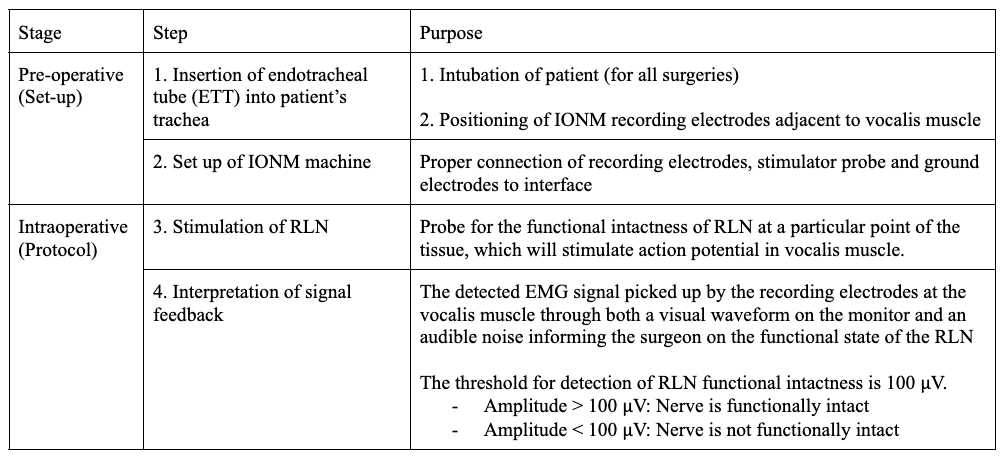
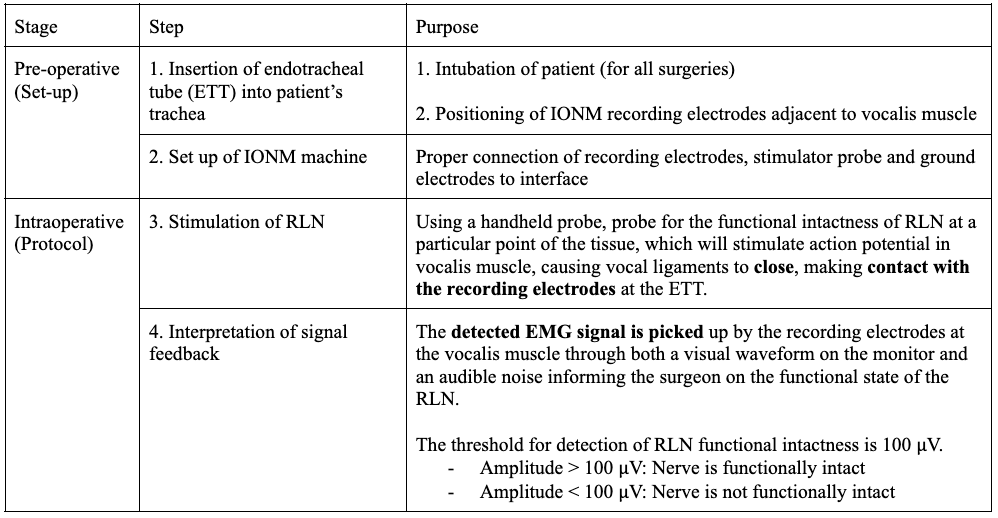
final changes maybe

Changed region(s): [[0.0, 0.0, 0.994, 1.0]]

diff --git a/index.html b/index.html
@@ -39,7 +39,7 @@
 
     <!-- This is the team member component use to display details about your team members -->
     <div class="team-member-wrapper">
-      <team-member avatar="assets/blackranger.png" name="Roopashini Sivananthan" department="Biomedical Engineering"
+      <team-member avatar="assets/roopa.png" name="Roopashini Sivananthan" department="Biomedical Engineering"
         year="National University of Singapore"></team-member>
       <team-member avatar="assets/nicole.jpg" name="Chong Hui Hsuen Nicole" department="Biomedical Engineering"
         year="National University of Singapore"></team-member>
@@ -147,7 +147,7 @@
           The thyroid gland controls the body’s metabolism, energy and growth, and is removed via thyroidectomies for patients with thyroid cancers, goiters, Graves disease and thyroid nodules. Thyroid cancer accounts for the bulk of cases due to its high prevalence, as the second most common cancer in females between 25 and 49 years old (NCCS, 2026), and almost 95% of cases requiring surgery as an effective treatment option (Gomez-Saiz, 2013). The recurrent laryngeal nerve (RLN) is an important nerve that controls voice, breathing and swallowing functions through activation of the vocalis muscle. It is a key nerve at risk during thyroidectomies due its close positioning posterior to the thyroid (Figure 1), with an injury rate of about 8.2% in Singapore (Soong et al., 2026). The presence of large tumours in thyroid cancer can obstruct the surgeon’s field view of the RLN, increasing the risk of injury. 
         </p>
         <image-component tag="image" source="assets/thyroid.jpg"
-          subtitle="Figure 1: Anatomy of thyroid"></image-component>
+          subtitle="Figure 1. Anatomy of thyroid"></image-component>
         <p>
           RLN injuries can be temporary or permanent, with a permanent injury rate of 1%, and can either be unilateral or bilateral. While unilateral RLN injury can cause swallowing difficulties and voice changes (Culp & Patel, 2023), bilateral injury can cause serious complications like respiratory distress (Culp & Patel, 2023). RLN injury can be classified into two subtypes: type I (segmental injury) or type II (global injury). Type I injuries account for 70% of cases, are often caused by clamping, traction, compression or thermal injury, and have the potential to be corrected intraoperatively if the clip, suture, vessel or fibrotic band entrapping the nerve is removed on time (Wu et al., 2014).
         </p>
@@ -155,9 +155,9 @@
           Intra-operative nerve monitoring (IONM) systems guide surgical decision making during thyroidectomies through determination of RLN identity and functional intactness, so surgeons can preserve the RLN or to change their operative course accordingly. To date, there is only one IONM system that is widely distributed worldwide — Medtronic’s Neural Integrity Monitor (NIM). Since the RLN controls the vocalis muscle, IONM determines RLN functional intactness by 1) electrical stimulation of the RLN and 2) measurement of the action potential fired by the vocalis muscle as a result of RLN stimulation. The mode of IONM commonly used in Singaporean hospitals is intermittent-IONM (i-IONM). The i-IONM set-up and protocol is detailed below:
         </p>
         <image-component tag="image" source="assets/ionm_workflow1.png"
-          subtitle="Table showing IONM pre-operative set-up and protocol"></image-component>
+          subtitle="Table 1. IONM pre-operative set-up and protocol"></image-component>
         <image-component tag="image" source="assets/ionm_workflow.png"
-          subtitle="Figure 2: IONM workflow"></image-component>
+          subtitle="Figure 2. IONM workflow"></image-component>
       </div>
 
       <div id="sub-section-1-header-2">
@@ -173,7 +173,7 @@
           to (Figure 3). 
         </p>
         <image-component tag="image" source="assets/vagusnerve.png"
-          subtitle="Figure 3: c-IONM system"></image-component>
+          subtitle="Figure 3. c-IONM system"></image-component>
         <p>
           Since this electrode is securely positioned for RLN stimulation 
           throughout the surgery, it is able to automatically stimulate the RLN and 
@@ -198,7 +198,7 @@
           can only be done by estimation as the contact point of the electrodes is not 
           visible to the surgeon. This troubleshooting protocol is executed in up to 23% 
           of surgeries, adding 5-10 minutes to total surgery time (Ansari et al., 2024). 
-          A survey we conducted with 30 surgeons similarly showed ETT displacement to be 
+          A <a href="#Survey with surgeons">survey we conducted with 30 surgeons</a> similarly showed ETT displacement to be 
           among the top 3 technical challenges faced during IONM operation. 
         </p>
         <video-component tag="False negative signals" source="https://youtube.com/embed/XZrJoHrcfj4"
@@ -251,8 +251,9 @@
         <p><br>
           The key terms are defined below:
         </p>
-        <table-component subtitle="Definitions of key terms">
+        <table-component subtitle="Table 2. Definitions of key terms" title="Table 2. Definitions of key terms">
           <div id="table2"></div>
+        <p style="text-align: center;"><i>Table 2. Definitions of key terms</i></p>
         </table-component>
 
       </div>
@@ -290,9 +291,9 @@
           We modelled our persona (Figure 9) based on one of our clinical mentors, Dr. Joel Lau, who is representative of a senior demographic of surgeons who have already undergone their training as a Head & Neck specialists and routinely use i-IONM and not c-IONM during thyroidectomies. His key gains, pains, and jobs to be done are shown below.
         </p>
         <image-component tag="image" source="assets/persona.png"
-          subtitle="Figure 9. Persona"></image-component>
+          subtitle="Figure 9. Persona"></image-component><br>
         <image-component tag="image" source="assets/value prop.png"
-          subtitle="Persona"></image-component>
+          subtitle="Table 3. Persona gains, pains and jobs to be done"></image-component>
 
         
       </div>
@@ -341,7 +342,7 @@
           Upon analysis from primary and secondary review, we formed our needs criteria encompassing both must-haves and good-to-haves along with clear justifications and alignment to our problem statement. 
         </p>
         <image-component tag="image" source="assets/design criteria.png"
-          subtitle="Design criteria"></image-component>
+          subtitle="Table 4. Design criteria"></image-component>
         <p>
           Overall, our must-have criteria aim to propose a new mechanism to assess nerve function while providing surgeons a robust system that can both detect and provide corrective actions on how to improve the signal obtained. It also gives surgeons a proactive solution that prevents ETT displacement while preventing disruptions to overall workflows during surgeries. 
         </p>
@@ -382,7 +383,7 @@
           <b>2. Designing solutions</b> - To fabricate solutions that prevent ETT displacement, improve contact area, measure and communicate signals effectively so as to address gaps in current solutions 
         </p>
         <image-component tag="image" source="assets/questions.png"
-          subtitle="Initial prototyping plan"></image-component>
+          subtitle="Table 5. Initial prototyping plan"></image-component>
       </div>
 
       <div id="sub-section-5-header-1">
@@ -410,7 +411,7 @@
         <image-component tag="image" source="assets/silicone.png"
           subtitle="Figure 18. Silicone vocal cords"></image-component>
         <p>
-          While the texture mimics real vocal ligaments, we had to integrate them together by using toothpick and rubber bands to secure the ligaments with the rest of the model (Figure 19). This helped to seal the gaps and form a proper closing mechanism. Future investigation will include a pneumatic pump to control and identify the amplitude of movements and match the signal of a real vocal cord movement upon stimulation of RLN. 
+          While the texture mimics real vocal ligaments, we had to integrate them together by using toothpick and rubber bands to secure the ligaments with the rest of the model (Figure 19). This helped to seal the gaps and form a proper closing mechanism. Future investigation will include a pneumatic pump to control, identify the amplitude of movements that matches the signal of a real vocal cord movement upon stimulation of RLN. 
         </p>
         <video-component tag="video" source="https://youtube.com/embed/7htqKR0bMUA"
           subtitle="Figure 19. Simulating vocal cord movement"></video-component>
@@ -423,7 +424,7 @@
           Currently, signals from ETT are measured via electromyography (EMG) activity from the movement of vocal ligaments in contact with the recording electrodes. We hope to explore other quantifiable detection methods to assess whether the displacement has occurred. The two possible methods tried were using distance displacement and pressure contact sensors. 
         </p>
         <p>
-          Firstly, a flex sensor was attached to the top half of the ETT secured using an adhesive glue (Figure 20). Flex sensor works as a variable resistor whose electrical resistance changes as the bending movement increases. Similarly, we were able to obtain variable readings as the tube was being bent. However, using a flex sensor is limited in its measurement for displacements occurring in the x and y directions and thus this method cannot be implemented on its own. 
+          Firstly, a flex sensor was attached to the top half of the ETT secured using an adhesive glue (Figure 20). Flex sensor works as a variable resistor whose electrical resistance changes as the bending movement increases. Similarly, we were able to obtain variable readings as the tube was being bent. However, using a flex sensor is limited in its measurement for displacements occurring in x, y and rotational directions. Thus, this could be coupled with other sensors such as magnetic or camera-based displacement trackers. 
         </p>
         <image-component tag="image" source="assets/flex.png"
           subtitle="Figure 20. Flex sensor attached to ETT"></image-component>
@@ -459,7 +460,7 @@
           Hence, our final iteration consists of a <a href="#Arduino Code used for traffic light bulb feedback">‘traffic light’ system</a> (Figure 24) where a green light indicates a good signal with minimal ETT displacement, a yellow signal signals to surgeons that an adjustment of ETT by Xmm is needed while a red signal alerts of a very large ETT displacement, possibly causing loss of contact between vocal cords and recording electrodes. 
         </p>
         <image-component tag="image" source="assets/traffic.png"
-          subtitle="Figure 24. Traffic light feedback"></image-component>
+          subtitle="Figure 24. Traffic light system"></image-component>
       </div>
 
       <div id="sub-section-5-header-4">
@@ -467,15 +468,17 @@
         <p>
           While methods of ETT displacements are explored, we aim to also look at ways to prevent ETT displacement. Hence, the first way includes the addition of an inflatable cuff to further secure the ETT to the trachea, thereby enhancing surface contact. Having a real to-scale model of the trachea had allowed us to investigate the cuff distance from the electrodes affecting its displacement, though this is an estimate due to varying anatomical structure of patients. 
         </p>
+        <video-component tag="video" source="https://youtube.com/embed/JsVUtnQmE4U"
+          subtitle="Figure 25. Inflatable cuff"></video-component>
         <p>
-        Another way looks at securing the ETT from the top via a head strap which serves as a better alternative compared to current methods of wrapping in terms of promoting stability. However, this method must be complemented with an <a href="#Arduino Code used for interface">interface</a> placed at the head strap, which is line to the surgeon's field of view (Figure 25). The surgeons are then able to interpret the signals received through the colour coded system and perform necessary corrective actions. 
+        Another way looks at securing the ETT from the top via a head strap which serves as a better alternative compared to current methods of wrapping in terms of promoting stability. However, this method must be complemented with an <a href="#Arduino Code used for interface">interface</a> placed at the head strap, which is line to the surgeon's field of view (Figure 26). The surgeons are then able to interpret the signals received through the colour coded system and perform necessary corrective actions. 
         </p>
         <image-component tag="image" source="assets/headstrap.png"
-          subtitle="Figure 25. Head strap to secure ETT"></image-component>
-        <p>
-          Our proposed prototyping plans to explore the weaknesses of the two methods are shown below.
-        </p>
-      </div>
+          subtitle="Figure 26a. Head strap to secure ETT"></image-component>
+        <br>
+        <image-component tag="image" source="assets/Traffic light interface.png"
+          subtitle="Figure 26b. Traffic light interface display"></image-component>
+        </div>
 
       <div id="sub-section-5-header-5">
         <h3>5.5. Continuous IONM methods </h3>
@@ -483,12 +486,12 @@
           Among the c-IONM methods, we aim to optimise stimulation via LAR and trans-tracheal stimulation via APS insertion into ETT, as they are c-IONM methods that make use of the ETT and integrate well with current workflows and enable continuous monitoring of nerve assessment. Their strengths and weaknesses for optimisation are shown here.
         </p>
         <image-component tag="image" source="assets/ETTcIONM.png"
-          subtitle="ETT-cIONM methods"></image-component>
+          subtitle="Table 6. ETT-cIONM methods"></image-component>
         <p>
           Our proposed prototyping plans to explore the weaknesses of the two methods are shown below.
         </p>
         <image-component tag="image" source="assets/prototyping_plan.png"
-          subtitle="Prototyping plan"></image-component>
+          subtitle="Table 7. Prototyping plan"></image-component>
       </div>
       
       <div id="sub-section-5-header-6">
@@ -511,7 +514,7 @@
           When gathering feedback on which of the two c-IONM methods using ETT to explore, surgeons were more receptive to the idea of stimulation via the LAR reflex for three reasons.
         </p>
         <image-component tag="image" source="assets/feedback.png"
-          subtitle="User feedback"></image-component>
+          subtitle="Table 8.User feedback"></image-component>
         <p>
           Surgeons found the feedback due ETT displacements to be useful indicators, but that there may be challenges in characterising false signals due to various contributing factors apart from ETT displacements such as poor contact surface area, noise due to electrical interference, traction etc.  
         </p>
@@ -527,11 +530,14 @@
         </p>
         <p>While our existing prototyping shows the feasibility of flex sensors and a light-based system to feedback on extent of ETT displacement, it needs to be integrated with a more empirical threshold indicating the amount of electrode displacement that corresponds with LOS and be tested to show its performance in reporting signal quality during different surgical maneuvers in thyroidectomy. This can be done by expanding our vocal cord model to include a mockup of the patient’s neck and head to simulate the repositioning that is performed during surgery. 
         </p>
-        <p> Our <a href="#Prototyping plan details">detailed project plan</a> is shown in the Gantt chart below (Figure 26).
+        <p> Our <a href="#Prototyping plan details">detailed project plan</a> is shown in the Gantt chart below (Figure 27).
         </p>
         <image-component tag="image" source="assets/gantt chart.png" 
-        subtitle="Figure 26. Gantt chart"></image-component>
+        subtitle="Figure 27. Gantt chart"></image-component>
+        <br>
       </div>
+    
+      <p>Word count: 3775</p>
 
     
     <!-- This is an example of how you can use the references component to create references -->
@@ -600,7 +606,20 @@
     <div id="appendix" class="appendix">
       <sl-divider></sl-divider>
       <h2>Appendix</h2>
-      
+      <p><u>Section 1.2.2: Signal Unreliability</u></p>
+      <div id="Survey with surgeons">
+        <p><b>a. Survey with surgeons</b></p>
+        <p>
+          We conducted a survey with 30 Head and Neck Surgeons both locally and globally with experience in thyroidectomies and the following shows the results of their experience with i-IONM and c-IONM:
+        </p>
+        <image-component tag="image" source="assets/survey1.png"
+        subtitle="Top procedures where IONM is used"></image-component><br>
+        <image-component tag="image" source="assets/survey2.png"
+        subtitle="Surgeons' main reasons for using IONM"></image-component><br>
+        <image-component tag="image" source="assets/survey3.png"
+        subtitle="Surgeons' main technical challenges encountered during IONM"></image-component>
+      </div>
+      <br>
       <p><u>Section 1.4 Stakeholder analysis</u></p>
       <div id="Reasons to accept">
         <p><b>a. Reasons to accept</b></p>
